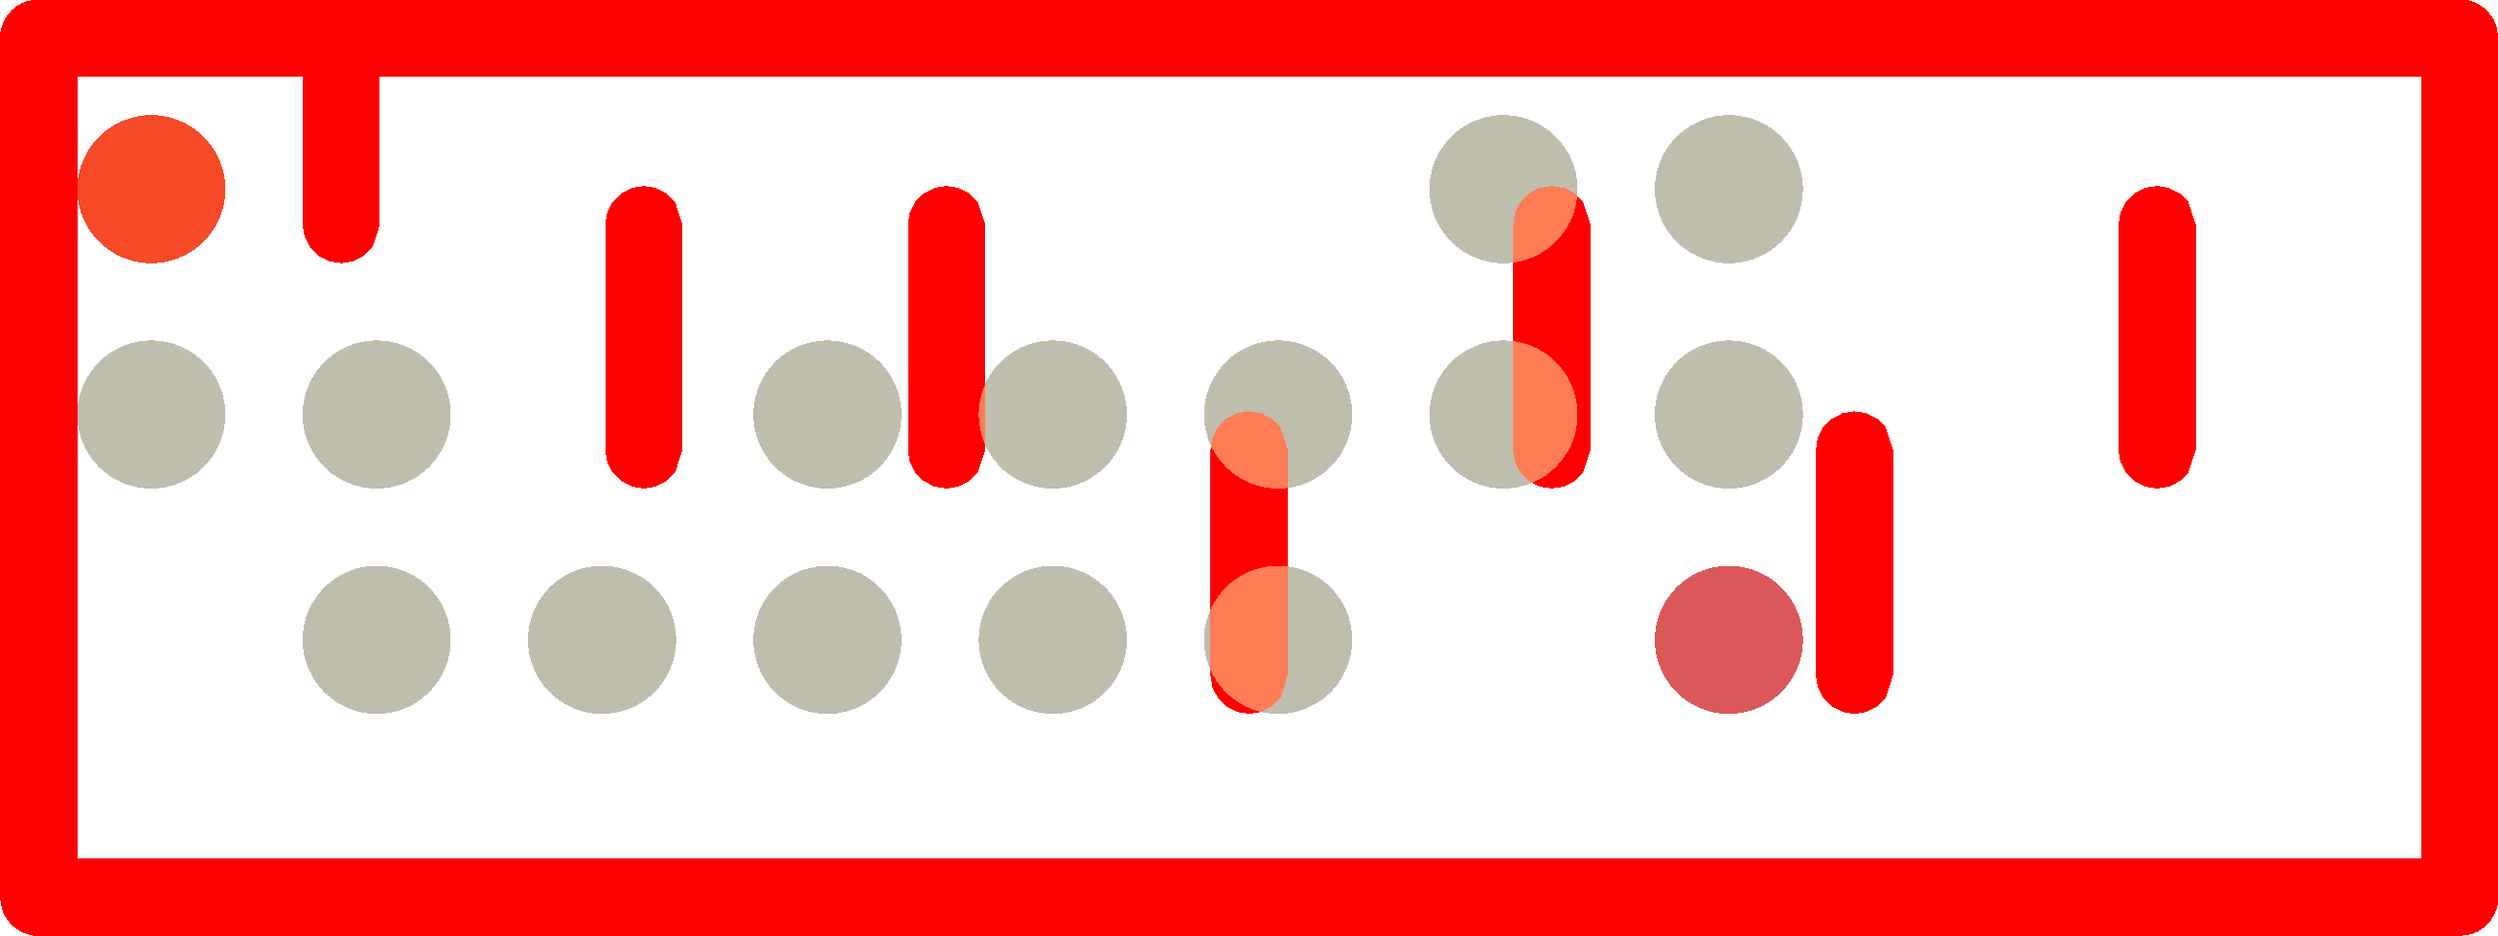
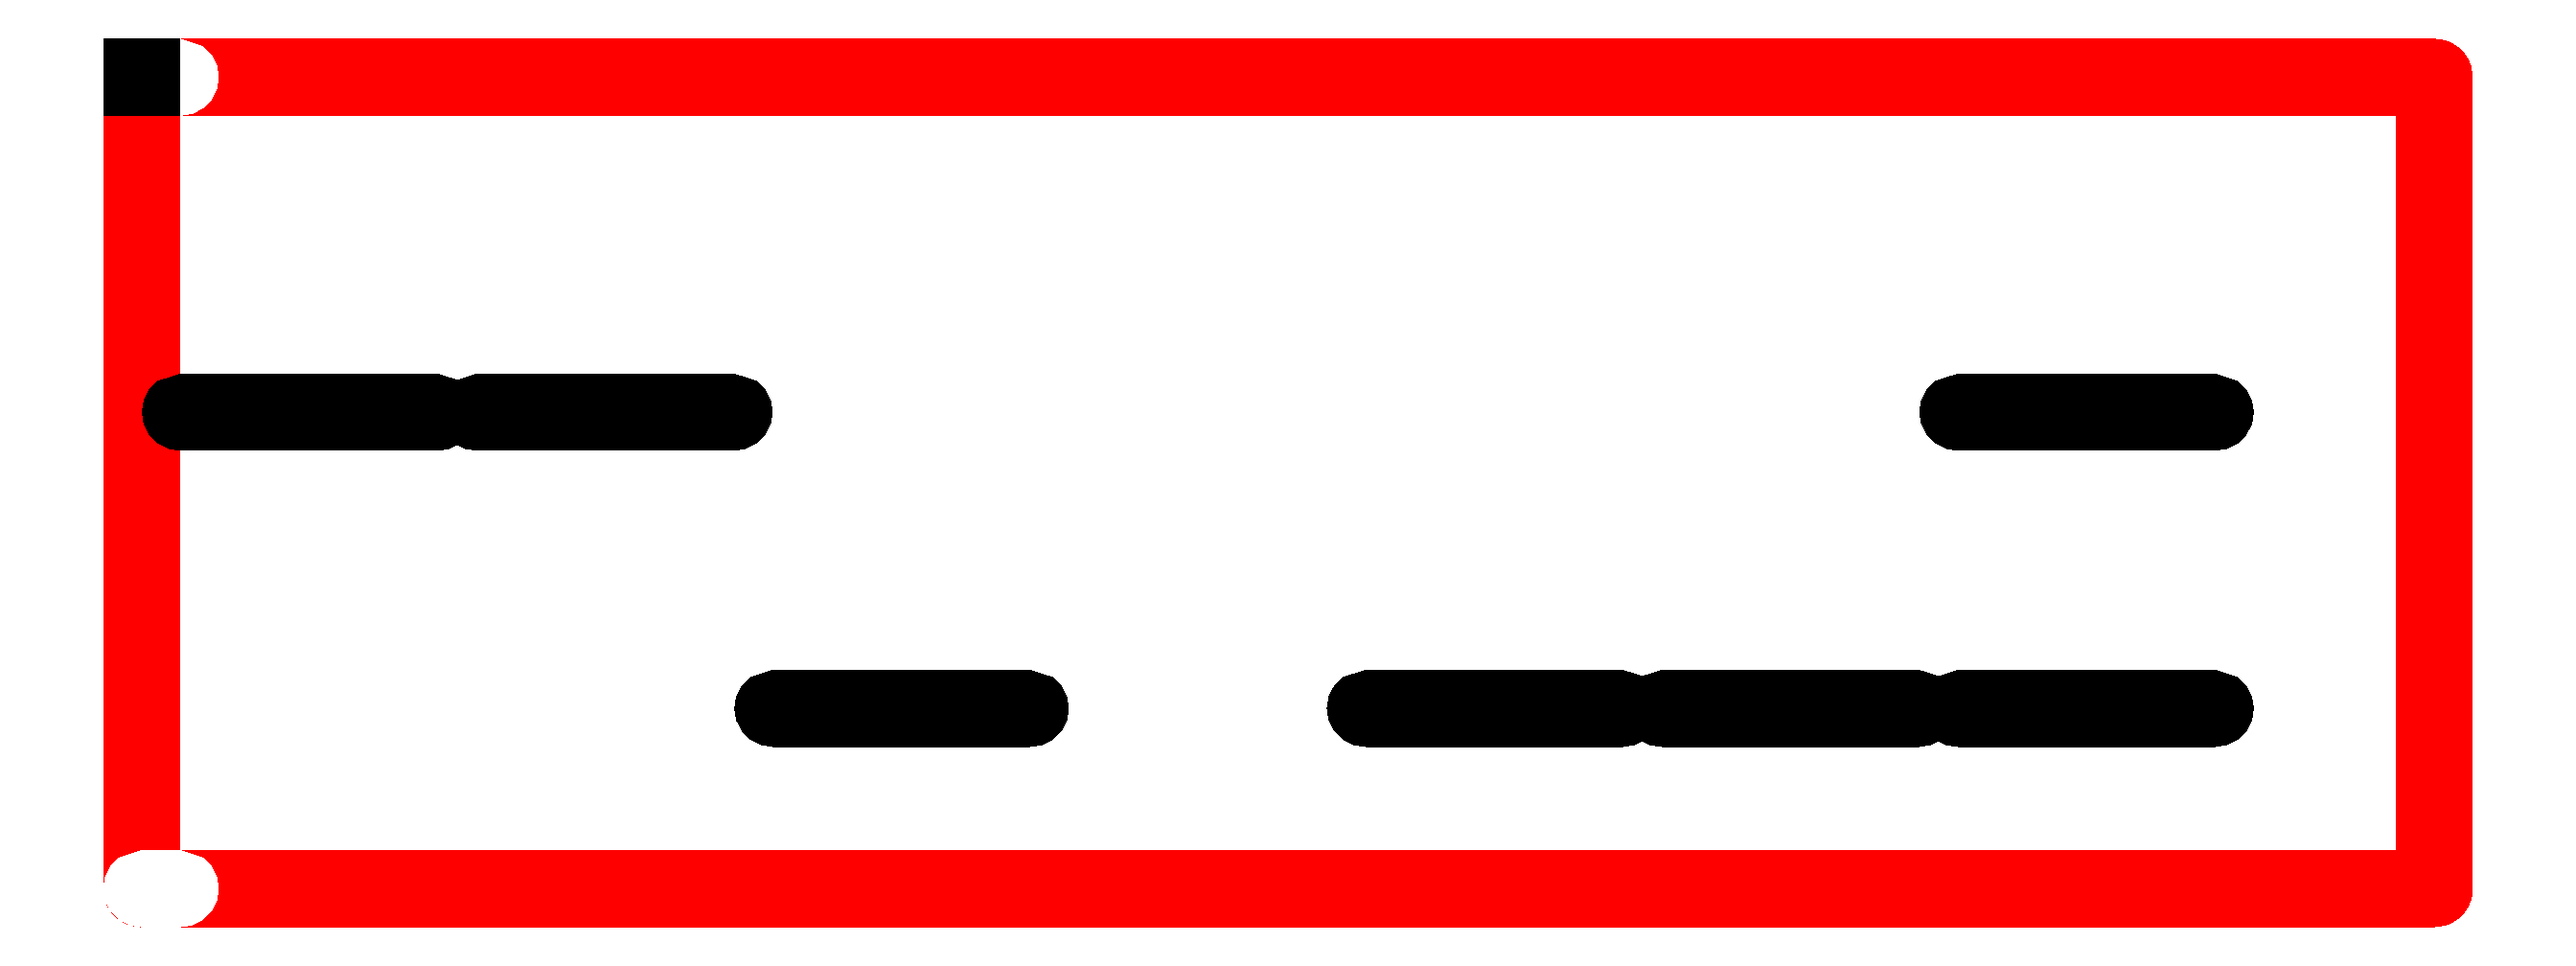
labirent imaj boyut-konum düzeltme 2

diff --git a/grafik_pencere_dosya.py b/grafik_pencere_dosya.py
@@ -5,7 +5,7 @@ from abc import ABCMeta, abstractmethod
 from kivy.uix.image import Image,CoreImage
 from kivy.clock import Clock
 from kivy.atlas import Atlas
-from kivy.graphics import Color, Line, Ellipse, Fbo
+from kivy.graphics import Color, Line, Ellipse, Fbo, Rectangle
 
 from sabitler import DuvarDurum,HucreSabit,EkranSabit,LabirentSabit,ImajTip,ImajSabit,GozTip,GozAksiyon,Yon,DikdortgenTip
 from temel import Konum
@@ -81,6 +81,9 @@ class StatikImaj(Image):
         self._gercekYukseklikImageWidget=-1
         self._gercekGenislikRender=-1
         self._gercekYukseklikRender=-1
+        self._gercekSolX=-1
+        self._gercekAltY=-1
+        self._gercekUstY=-1
 
     def _gercekDegerlerHesapla(self):
         raise NotImplementedError("_gercek değerler, alt sınıflarda hesaplanmalıdır!")
@@ -224,75 +227,95 @@ class LabirentStatikImaj(StatikImaj):
 
         self._gercekGenislikImageWidget,self._gercekYukseklikImageWidget=self.__olcekle(maksSahaGenislik,maksSahaYukseklik)#labirentin çizileceği alanın genişlik ve yükseklik
         
-
-
         # alt-üst(2+2), sol-sağ(2+2) taraflardan kenarlık kalınlığının 2 katı kadar küçültme yapılacak
         #texture ait  genişlik ve yükseklik, canvas'a göre küçültülecek. Fakat bu küçültmenin oranı genişlik ve yüksekliğe göre aynı olmalı (*self._gercekYukseklikImageWidget/canvasGenislik)
         if self.__labirent.tip==DikdortgenTip.YATAY:
-            self.__gercekKenarlikKalinlik=self.__hesaplaKenarlikKalinlik(self._gercekYukseklikImageWidget)#self._gercekYukseklikImageWidget/EkranSabit.LABIRENT_KENARLIK_KALINLIK_ORAN
+            self.__gercekKenarlikKalinlik=self.__hesaplaKenarlikKalinlik(self._gercekYukseklikImageWidget)
+        elif self.__labirent.tip==DikdortgenTip.DIKEY:   
+            self.__gercekKenarlikKalinlik=self.__hesaplaKenarlikKalinlik(self._gercekGenislikImageWidget)
+        elif self.__labirent.tip==DikdortgenTip.KARE:
+            self.__gercekKenarlikKalinlik=self.__hesaplaKenarlikKalinlik(self._gercekGenislikImageWidget)
+
+
+
+
+
+        hucreBoyutGenisligeGore=self.__hesaplaHucreKenarUzunluk(self._gercekGenislikImageWidget,self.__labirent.sutunSayi,self.__gercekKenarlikKalinlik)
+        hucreBoyutYuksekligeGore=self.__hesaplaHucreKenarUzunluk(self._gercekYukseklikImageWidget,self.__labirent.satirSayi,self.__gercekKenarlikKalinlik)            
+
+        if hucreBoyutYuksekligeGore<hucreBoyutGenisligeGore:
+            self.__gercekHucreKenarUzunluk=hucreBoyutYuksekligeGore
+            self._gercekYukseklikRender=self._gercekYukseklikImageWidget-EkranSabit.TEXTURE_KUCULTME_CARPAN_2_KENAR*self.__gercekKenarlikKalinlik
+            self._gercekGenislikRender=self._gercekYukseklikRender*self._gercekGenislikImageWidget/self._gercekYukseklikImageWidget
+        else:
+            self.__gercekHucreKenarUzunluk=hucreBoyutGenisligeGore
             self._gercekGenislikRender=self._gercekGenislikImageWidget-EkranSabit.TEXTURE_KUCULTME_CARPAN_2_KENAR*self.__gercekKenarlikKalinlik
             self._gercekYukseklikRender=self._gercekGenislikRender*self._gercekYukseklikImageWidget/self._gercekGenislikImageWidget
-            self._gercekYukseklikImageWidget+=(self._gercekGenislikImageWidget/self._gercekYukseklikImageWidget)/EkranSabit.TEXTURE_KUCULTME_CARPAN_2_KENAR*self.__gercekKenarlikKalinlik
-            self.__gercekHucreKenarUzunluk=self.__hesaplaHucreKenarUzunluk(self._gercekGenislikRender,self.__labirent.sutunSayi,self.__gercekKenarlikKalinlik)#self.__labirent.sutunSayi-1
-            
-            
-    
 
-        elif self.__labirent.tip==DikdortgenTip.DIKEY:            
-            self.__gercekKenarlikKalinlik=self.__hesaplaKenarlikKalinlik(self._gercekGenislikImageWidget)#self._gercekGenislikImageWidget/EkranSabit.LABIRENT_KENARLIK_KALINLIK_ORAN
-            self._gercekYukseklikRender=self._gercekYukseklikImageWidget-EkranSabit.TEXTURE_KUCULTME_CARPAN_2_KENAR*self.__gercekKenarlikKalinlik   
-            self._gercekGenislikRender=self._gercekYukseklikRender*self._gercekGenislikImageWidget/self._gercekYukseklikImageWidget
-            self._gercekGenislikImageWidget+=(self._gercekYukseklikImageWidget/self._gercekGenislikImageWidget)/EkranSabit.TEXTURE_KUCULTME_CARPAN_2_KENAR*self.__gercekKenarlikKalinlik
-            self.__gercekHucreKenarUzunluk=self.__hesaplaHucreKenarUzunluk(self._gercekYukseklikRender,self.__labirent.satirSayi,self.__gercekKenarlikKalinlik)
-        elif self.__labirent.tip==DikdortgenTip.KARE:
-            self.__gercekKenarlikKalinlik=self.__hesaplaKenarlikKalinlik(self._gercekGenislikImageWidget)#self._gercekGenislikImageWidget/EkranSabit.LABIRENT_KENARLIK_KALINLIK_ORAN
-            self._gercekYukseklikRender=self._gercekYukseklikImageWidget-EkranSabit.TEXTURE_KUCULTME_CARPAN_2_KENAR*self.__gercekKenarlikKalinlik   
-            self._gercekGenislikRender=self._gercekYukseklikRender
-            #self._gercekGenislikImageWidget+=(self._gercekYukseklikImageWidget/self._gercekGenislikImageWidget)/EkranSabit.TEXTURE_KUCULTME_CARPAN_2_KENAR*self.__gercekKenarlikKalinlik
-            self.__gercekHucreKenarUzunluk=self.__hesaplaHucreKenarUzunluk(self._gercekYukseklikRender,self.__labirent.satirSayi,self.__gercekKenarlikKalinlik)
+        self._gercekSolX=self.__gercekKenarlikKalinlik+(self._gercekGenislikImageWidget-self._gercekGenislikRender)/2
+        self._gercekAltY=((self._gercekYukseklikImageWidget-self.gercekYukseklikRender)/2)+self.__gercekKenarlikKalinlik
+        self._gercekUstY=self._gercekYukseklikImageWidget-self.__gercekKenarlikKalinlik-((self._gercekYukseklikImageWidget-self.gercekYukseklikRender)/2)
 
 
 
     def _textureOlustur(self):
         #labirent görselini, maks boyutlara göre bir kez oluşturup, sonrasında ölçekleniyor
 
-        solX=self.__gercekKenarlikKalinlik#EkranSabit.TEXTURE_KUCULTME_CARPAN_1_KENAR*self.__gercekKenarlikKalinlik
-        #ustY=self._gercekYukseklikRender+EkranSabit.TEXTURE_KUCULTME_CARPAN_1_KENAR*self.__gercekKenarlikKalinlik*self._gercekYukseklikImageWidget/self._gercekGenislikImageWidget 
-        ustY=self._gercekYukseklikRender#self._gercekYukseklikRender-EkranSabit.TEXTURE_KUCULTME_CARPAN_1_KENAR*self.__gercekKenarlikKalinlik
+        #solX=EkranSabit.TEXTURE_KUCULTME_CARPAN_2_KENAR*self.__gercekKenarlikKalinlik+self.__gercekKenarlikKalinlik#self.__gercekKenarlikKalinlik#EkranSabit.TEXTURE_KUCULTME_CARPAN_1_KENAR*self.__gercekKenarlikKalinlik
+        #ustY=self._gercekYukseklikRender-self.__gercekKenarlikKalinlik
 
         
-        #fbo = Fbo(size=(self._gercekGenislikImageWidget, self._gercekYukseklikImageWidget))
-        fbo = Fbo(size=(self._gercekGenislikRender, self._gercekYukseklikRender))
+        fbo = Fbo(size=(self._gercekGenislikImageWidget, self._gercekYukseklikImageWidget))
+        #fbo = Fbo(size=(self._gercekGenislikRender, self._gercekYukseklikRender))
+        
+
+
 
         # Kivy Fbo varsayılan olarak transparan gelebilir. Arka planı temizliyoruz.
         fbo.clear_buffer()
 
+
         # 2. Çizim komutlarını Fbo canvas'ına ekliyoruz
         with fbo:
+
+
+            
             # Kenarlık rengi ve çerçeve çizimi
-            textureX = solX
-            textureY = self.__gercekKenarlikKalinlik#EkranSabit.TEXTURE_KUCULTME_CARPAN_1_KENAR*self.__gercekKenarlikKalinlik
+            textureX = self._gercekSolX
+            textureY = self._gercekUstY-self._gercekYukseklikRender+2*self.__gercekKenarlikKalinlik
 
 
             Color(rgba=LabirentSabit.KENARLIK_RENK)
-            self.__cizCerceve(textureX,textureY,self._gercekGenislikRender,self._gercekYukseklikRender)
+            self.__cizCerceve(self._gercekSolX,self._gercekAltY,self._gercekGenislikRender,self._gercekYukseklikRender)
 
             # Duvarların çizimi
-            self.__cizDuvar(solX,ustY)
+            self.__cizDuvar(self._gercekSolX,self._gercekUstY)
             
             # Çözüm yolu veya Başlangıç/Bitiş hücrelerinin boyanması
             hucreTip=HucreSabit.TIP[HucreSabit.TIP_YOL_ANAHTAR]
             #for hucre in self.__cozumYolu:
                 #self.__boyaHucre(labirent,solX,ustY,hucre,hucreTip[HucreSabit.TIP_UZUNLUK_CARPAN_ANAHTAR],hucreTip[HucreSabit.TIP_RENK_ANAHTAR])
             for hucreNumara in range(self.__labirent.cozumYoluUzunluk):
-                self.__boyaHucre(solX,ustY,self.__labirent.cozumYoluHucre(hucreNumara),hucreTip[HucreSabit.TIP_UZUNLUK_CARPAN_ANAHTAR],hucreTip[HucreSabit.TIP_RENK_ANAHTAR])
+                pass#self.__boyaHucre(solX,ustY,self.__labirent.cozumYoluHucre(hucreNumara),hucreTip[HucreSabit.TIP_UZUNLUK_CARPAN_ANAHTAR],hucreTip[HucreSabit.TIP_RENK_ANAHTAR])
 
 
             hucreTip=HucreSabit.TIP[HucreSabit.TIP_BASLANGIC_ANAHTAR]
-            self.__boyaHucre(solX,ustY,Konum(self.__labirent.baslangicSatirNumara,self.__labirent.baslangicSutunNumara),hucreTip[HucreSabit.TIP_UZUNLUK_CARPAN_ANAHTAR],hucreTip[HucreSabit.TIP_RENK_ANAHTAR])
+            pass#self.__boyaHucre(solX,ustY,Konum(self.__labirent.baslangicSatirNumara,self.__labirent.baslangicSutunNumara),hucreTip[HucreSabit.TIP_UZUNLUK_CARPAN_ANAHTAR],hucreTip[HucreSabit.TIP_RENK_ANAHTAR])
             
             hucreTip=HucreSabit.TIP[HucreSabit.TIP_BITIS_ANAHTAR]
-            self.__boyaHucre(solX,ustY,Konum(self.__labirent.bitisSatirNumara,self.__labirent.bitisSutunNumara),hucreTip[HucreSabit.TIP_UZUNLUK_CARPAN_ANAHTAR],hucreTip[HucreSabit.TIP_RENK_ANAHTAR])
+            pass#self.__boyaHucre(solX,ustY,Konum(self.__labirent.bitisSatirNumara,self.__labirent.bitisSutunNumara),hucreTip[HucreSabit.TIP_UZUNLUK_CARPAN_ANAHTAR],hucreTip[HucreSabit.TIP_RENK_ANAHTAR])
+
+
+
+            Color(1,1,1,1)
+            #Rectangle(size=(self.__gercekKenarlikKalinlik,self.__gercekKenarlikKalinlik),pos=(self._gercekSolX-self.__gercekKenarlikKalinlik/2,self._gercekUstY-self.__gercekKenarlikKalinlik))
+            x=self._gercekSolX
+            y=self._gercekUstY
+            Line(width=self.__gercekKenarlikKalinlik,points=(x,self._gercekUstY,x+self.__gercekKenarlikKalinlik,self._gercekUstY))
+            Line(width=self.__gercekKenarlikKalinlik,points=(x,self._gercekAltY,x+self.__gercekKenarlikKalinlik,self._gercekAltY))
+
+            Color(0,0,0,1)
+            Rectangle(size=(2*self.__gercekKenarlikKalinlik,2*self.__gercekKenarlikKalinlik),pos=(self._gercekSolX-self.__gercekKenarlikKalinlik,self._gercekUstY-self.__gercekKenarlikKalinlik))
 
         # 3. Fbo üzerindeki çizimleri ekrana yansıtılmaya hazır bir doku (texture) olarak çekiyoruz
         fbo.draw()
@@ -311,24 +334,30 @@ class LabirentStatikImaj(StatikImaj):
         Line(close="True", width=self.__gercekKenarlikKalinlik,rectangle=(x,y, genislik-2*self.__gercekKenarlikKalinlik, yukseklik-2*self.__gercekKenarlikKalinlik))
 
     def __cizDuvar(self,solX,ustY):
+
+
+
+        Color(0,0,0,1)
         for satirNumara in range(self.__labirent.satirSayi):
             for sutunNumara in range(self.__labirent.sutunSayi-1):
                 duvar=self.__labirent.duvar(self.__labirent.hucre(satirNumara,sutunNumara),self.__labirent.hucre(satirNumara,sutunNumara+1))
                 if duvar.durum==DuvarDurum.KAPALI:
                     #x=solX+self.__gercekHucreKenarUzunluk*(sutunNumara+1)
-                    x=solX+(self.__gercekHucreKenarUzunluk+2*self.__gercekKenarlikKalinlik)*(sutunNumara+1)                    
-                    y1=ustY-self.__gercekHucreKenarUzunluk*satirNumara
-                    y2=y1-self.__gercekHucreKenarUzunluk
-                    Line(width=self.__gercekKenarlikKalinlik,points=(x,y1,x,y2))
+                    
+                    x=solX+1*self.__gercekKenarlikKalinlik+(self.__gercekHucreKenarUzunluk+2*self.__gercekKenarlikKalinlik)*(sutunNumara+1)                    
+                    y1=ustY-(1*self.__gercekKenarlikKalinlik)-(2*self.__gercekKenarlikKalinlik+self.__gercekHucreKenarUzunluk)*satirNumara
+                    y2=y1-self.__gercekKenarlikKalinlik-self.__gercekHucreKenarUzunluk
+                    #Line(width=self.__gercekKenarlikKalinlik,points=(x,y1,x,y2))
 
         for sutunNumara in range(self.__labirent.sutunSayi):
             for satirNumara in range(self.__labirent.satirSayi-1):
                 duvar=self.__labirent.duvar(self.__labirent.hucre(satirNumara,sutunNumara),self.__labirent.hucre(satirNumara+1,sutunNumara))
                 if duvar.durum==DuvarDurum.KAPALI:
-                    x1=solX+(self.__gercekHucreKenarUzunluk+0.75*self.__gercekKenarlikKalinlik)*sutunNumara
-                    y=ustY-self.__gercekHucreKenarUzunluk*(satirNumara+1)
-                    x2=x1+self.__gercekHucreKenarUzunluk+0.75*self.__gercekKenarlikKalinlik
-                    #Line(width=self.__gercekKenarlikKalinlik,points=(x1,y,x2,y))
+                    x1=solX+1*self.__gercekKenarlikKalinlik+(self.__gercekHucreKenarUzunluk+2*self.__gercekKenarlikKalinlik)*sutunNumara
+                    y=ustY-(1*self.__gercekKenarlikKalinlik)-(2*self.__gercekKenarlikKalinlik+self.__gercekHucreKenarUzunluk)*(satirNumara+1)
+                    x2=x1+self.__gercekHucreKenarUzunluk+self.__gercekKenarlikKalinlik
+                    Line(width=self.__gercekKenarlikKalinlik,points=(x1,y,x2,y))
+
 
     def __boyaHucre(self,solX,ustY,konum,uzunlukCarpan,renk):
         Color(renk["r"],renk["g"],renk["b"],renk["a"])
@@ -353,9 +382,7 @@ class LabirentStatikImaj(StatikImaj):
                 return self.guncelGenislikRender/EkranSabit.LABIRENT_KENARLIK_KALINLIK_ORAN'''
 
     def __hesaplaHucreKenarUzunluk(self,olcu,hucreSayi,kenarlikKalinlik):#olcu; genişlik ya da yükseklik. hucreSayi; satır ya da sütun sayısı
-        #return (olcu-(hucreSayi)*kenarlikKalinlik)/(hucreSayi-1)
         return (olcu-(hucreSayi+1)*2*kenarlikKalinlik)/(hucreSayi)
-        #DİKKAAAT !! çizim yapılırken, kenarlık kalınlıkları, sayısal değerin 2 katı olarak çiziliyor !!!!
         return olcu/hucreSayi
 
 
